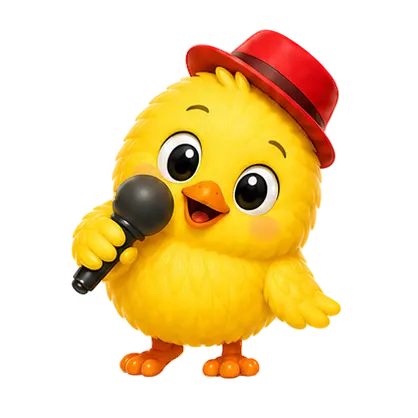
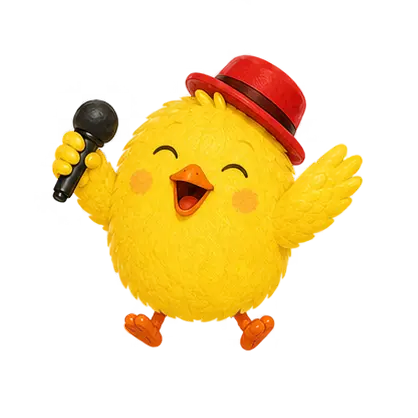
Improve hiyoko pictures

diff --git a/src/assets/imageUrls.ts b/src/assets/imageUrls.ts
@@ -1,4 +1,3 @@
-import hiyokoSelect from "./hiyoko_question.webp";
 import hiyoko1 from "./hiyoko1.webp";
 import hiyoko2 from "./hiyoko2.webp";
 import hiyoko3 from "./hiyoko3.webp";
@@ -7,6 +6,8 @@ import hiyoko5 from "./hiyoko5.webp";
 import hiyoko6 from "./hiyoko6.webp";
 import hiyoko7 from "./hiyoko7.webp";
 import hiyoko8 from "./hiyoko8.webp";
+import hiyoko9 from "./hiyoko9.webp";
+import hiyoko10 from "./hiyoko10.webp";
 
 export const HIYOKO_IMAGE_URLS = [
   hiyoko1,
@@ -17,9 +18,11 @@ export const HIYOKO_IMAGE_URLS = [
   hiyoko6,
   hiyoko7,
   hiyoko8,
+  hiyoko9,
+  hiyoko10,
 ] as const;
 
 export const getRandomHiyokoImageUrl = () =>
   HIYOKO_IMAGE_URLS[Math.floor(Math.random() * HIYOKO_IMAGE_URLS.length)];
 
-export const NEXT_SCREEN_IMAGE_URLS = [hiyokoSelect, ...HIYOKO_IMAGE_URLS];
+export const NEXT_SCREEN_IMAGE_URLS = [...HIYOKO_IMAGE_URLS];

diff --git a/src/constants/speech.test.ts b/src/constants/speech.test.ts
@@ -3,6 +3,6 @@ import { DEFAULT_NEWS_SPEECH_CONFIG } from "./speech";
 
 describe("DEFAULT_NEWS_SPEECH_CONFIG", () => {
   test("uses fixed rate and pitch", () => {
-    expect(DEFAULT_NEWS_SPEECH_CONFIG).toEqual({ rate: 1, pitch: 1 });
+    expect(DEFAULT_NEWS_SPEECH_CONFIG).toEqual({ rate: 0.75, pitch: 1.25 });
   });
 });
